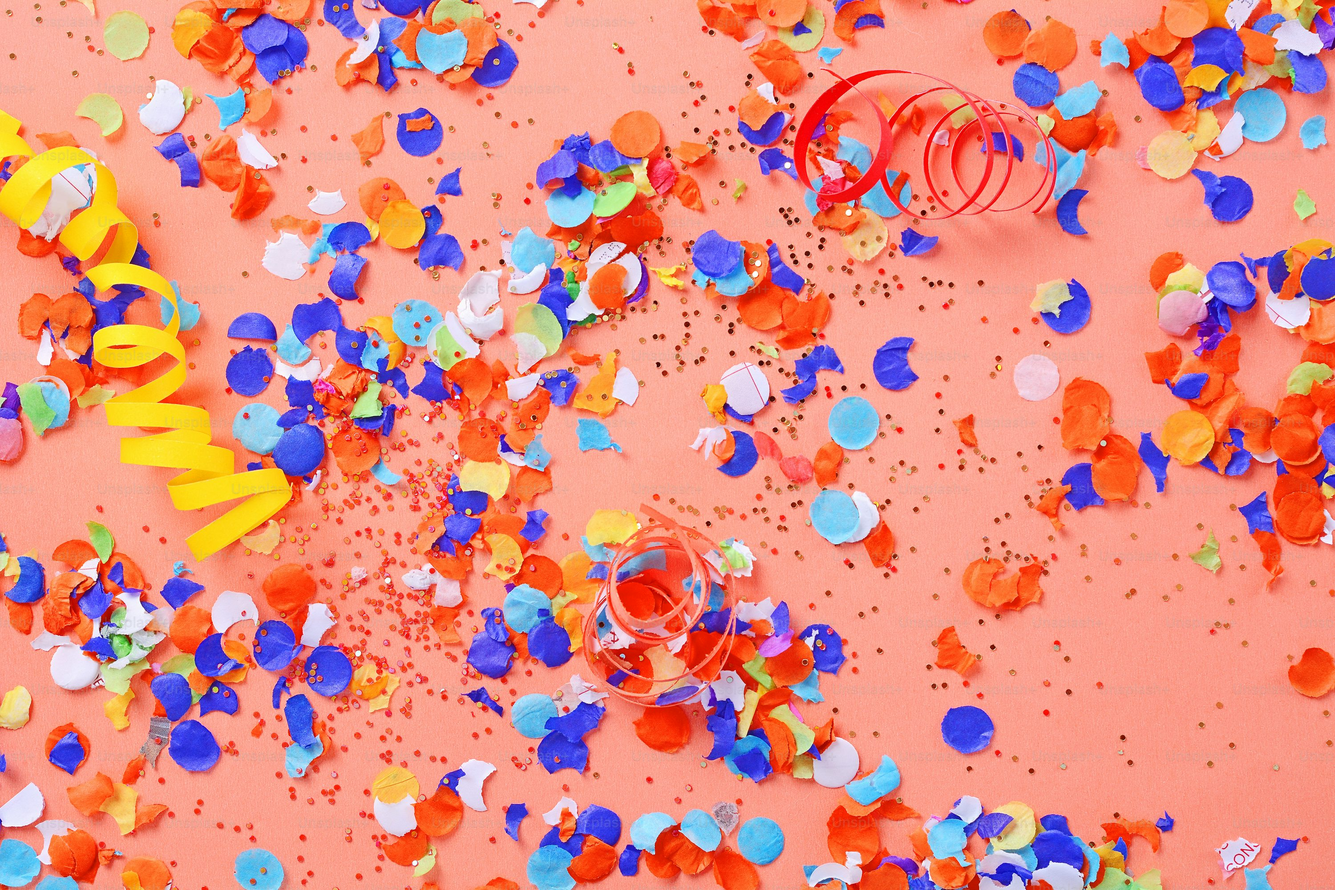
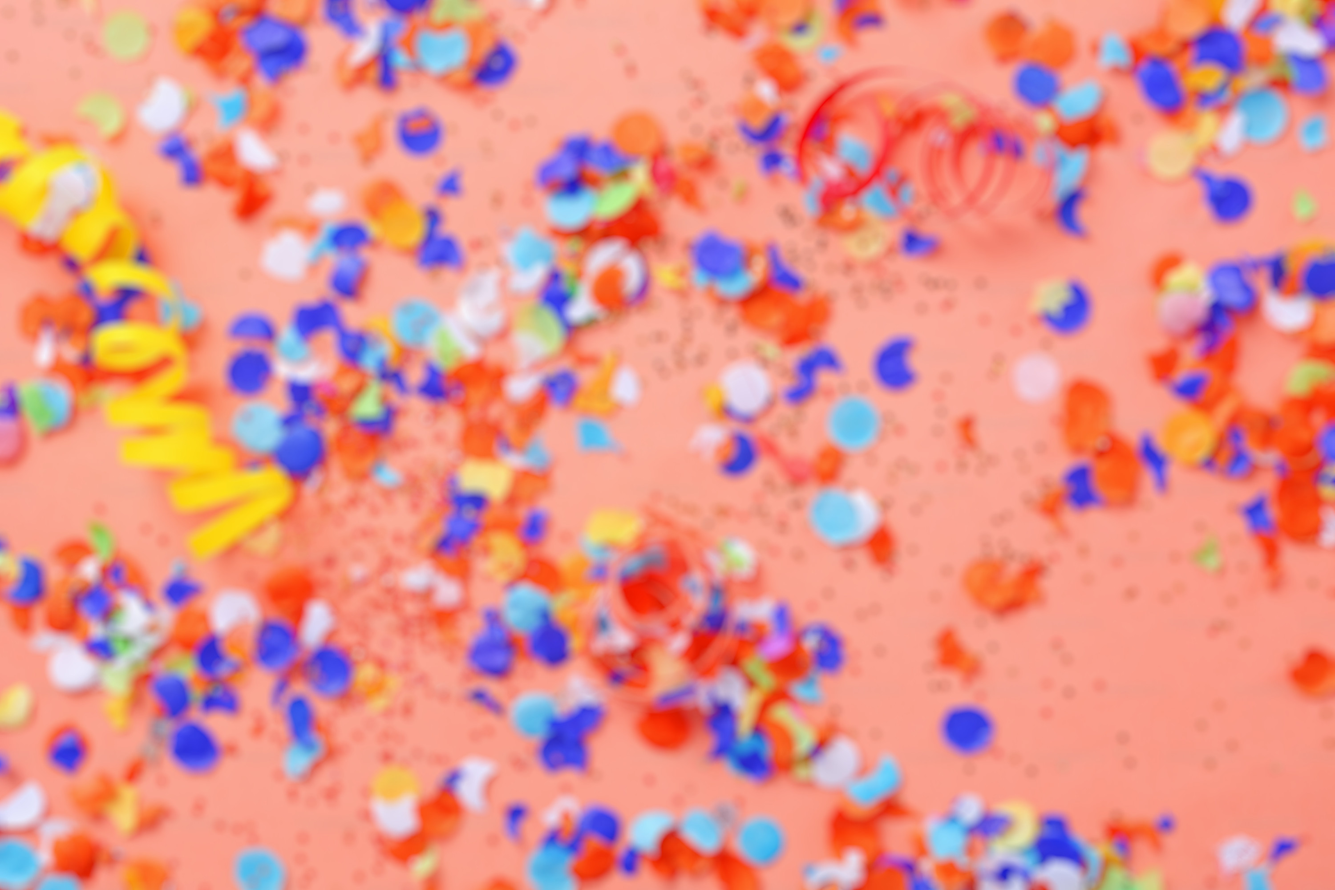
courrier noel updated

diff --git a/courrier-noel/style.css b/courrier-noel/style.css
@@ -54,28 +54,8 @@ body{
   background-image: url("christmas-background.jpg");
 }
 
-:r/*oot[data-season="birthday"] body{
+:root[data-season="birthday"] body{
   background-image: url("birthday-background.jpeg");
-
-  filter: blur(18px) saturate(1.1);
-  opacity: 0.35;
-
-  z-index: -1;
-}
-*/
-:root[data-season="birthday"] body::before {
-  content: "";
-  position: fixed;
-  inset: 0;
-
-  background-image: url("birthday-background.jpeg");
-  background-size: cover;
-  background-position: center;
-
-  filter: blur(18px);
-  opacity: 0.35;
-
-  z-index: -1;
 }
 
 /* Header */
